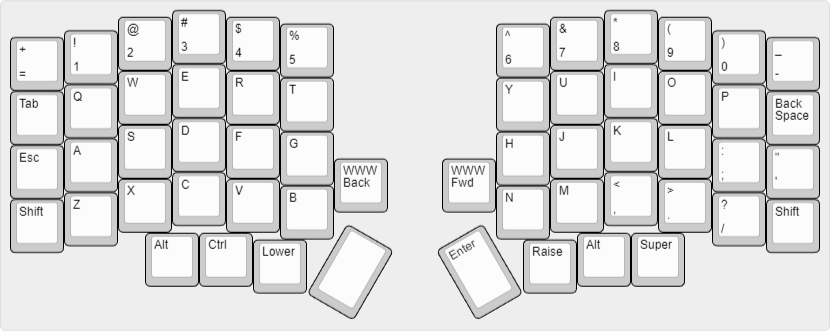
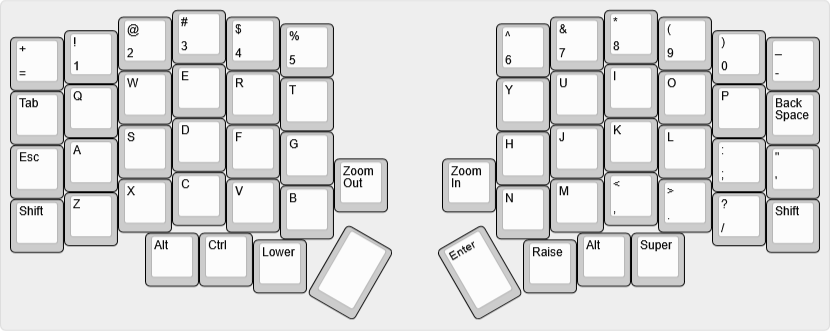
Swap Lily58 extra keys to browser zoom

diff --git a/keyboards/lily58/keymaps/bcat/keymap.c b/keyboards/lily58/keymaps/bcat/keymap.c
@@ -15,7 +15,7 @@ const uint16_t PROGMEM keymaps[][MATRIX_ROWS][MATRIX_COLS] = {
         KC_EQL,   KC_1,     KC_2,     KC_3,     KC_4,     KC_5,                         KC_6,     KC_7,     KC_8,     KC_9,     KC_0,     KC_MINS,
         KC_TAB,   KC_Q,     KC_W,     KC_E,     KC_R,     KC_T,                         KC_Y,     KC_U,     KC_I,     KC_O,     KC_P,     KC_BSPC,
         KC_ESC,   KC_A,     KC_S,     KC_D,     KC_F,     KC_G,                         KC_H,     KC_J,     KC_K,     KC_L,     KC_SCLN,  KC_QUOT,
-        KC_LSFT,  KC_Z,     KC_X,     KC_C,     KC_V,     KC_B,     KC_WBAK,  KC_WFWD,  KC_N,     KC_M,     KC_COMM,  KC_DOT,   KC_SLSH,  KC_RSFT,
+        KC_LSFT,  KC_Z,     KC_X,     KC_C,     KC_V,     KC_B,     KY_ZMOUT, KY_ZMIN,  KC_N,     KC_M,     KC_COMM,  KC_DOT,   KC_SLSH,  KC_RSFT,
                                       KC_LALT,  KC_LCTL,  TL_LOWR,  KC_SPC,   KC_ENT,   TL_UPPR,  KC_RALT,  KC_RGUI
     ),
     [LAYER_LOWER] = LAYOUT(

diff --git a/keyboards/lily58/keymaps/bcat/README.md b/keyboards/lily58/keymaps/bcat/README.md
@@ -15,8 +15,7 @@ per side.
   this; I just had to do _something_ with those keys.)
 * The extra thumb keys on the bottom row are used for a Left Alt key (for easier
   Alt+Tab, Alt+F4, etc.) and a dedicated Super key.
-* The harder-to-reach thumb keys below the controllers are bound to browser
-  back/forward navigation keys.
+* The extra thumb keys below the controllers are bound to browser zoom keys.
 </details>
 
 | Default layer ([KLE](http://www.keyboard-layout-editor.com/#/gists/e0eb3af65961e9fd612dcff3ddd88e4f)) |
